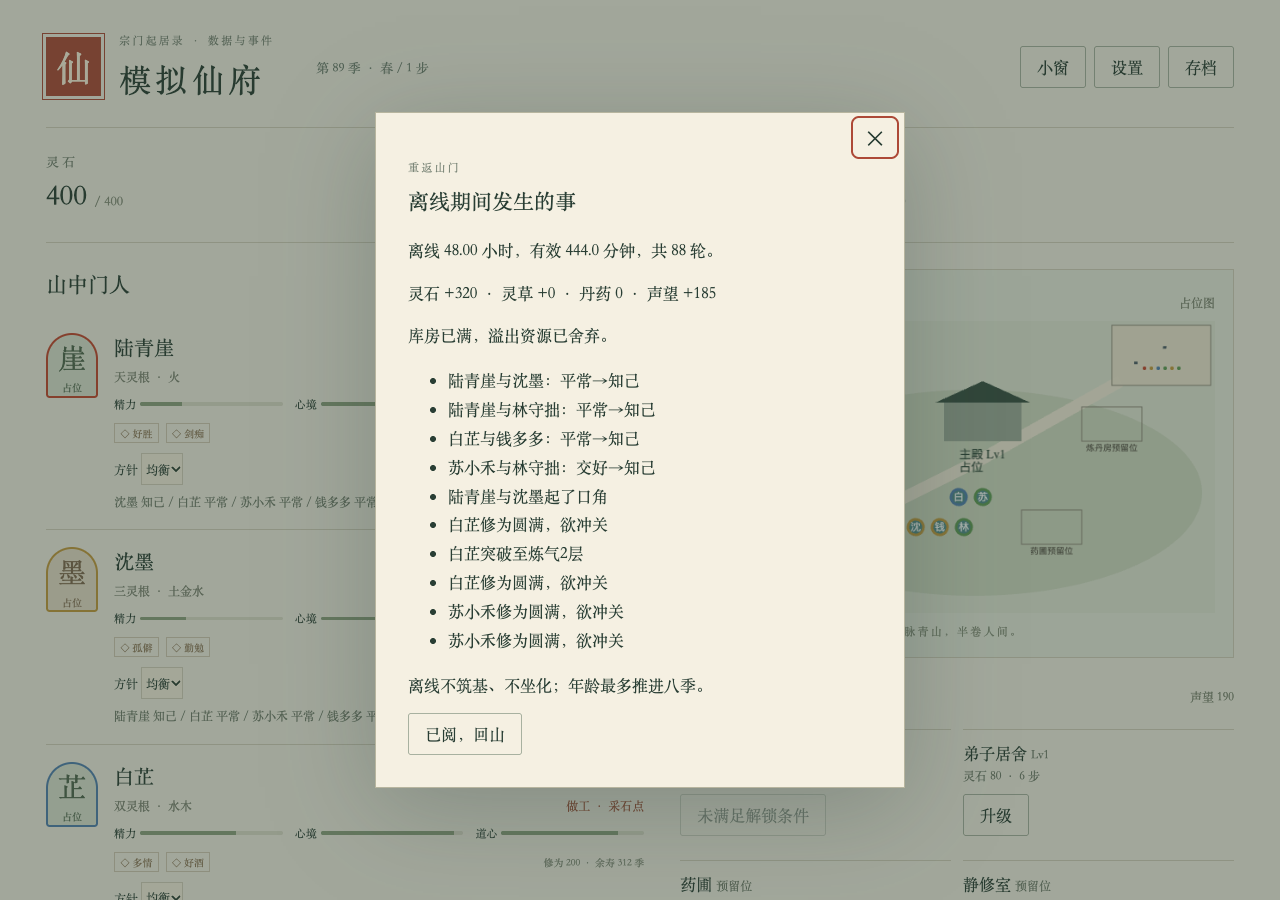
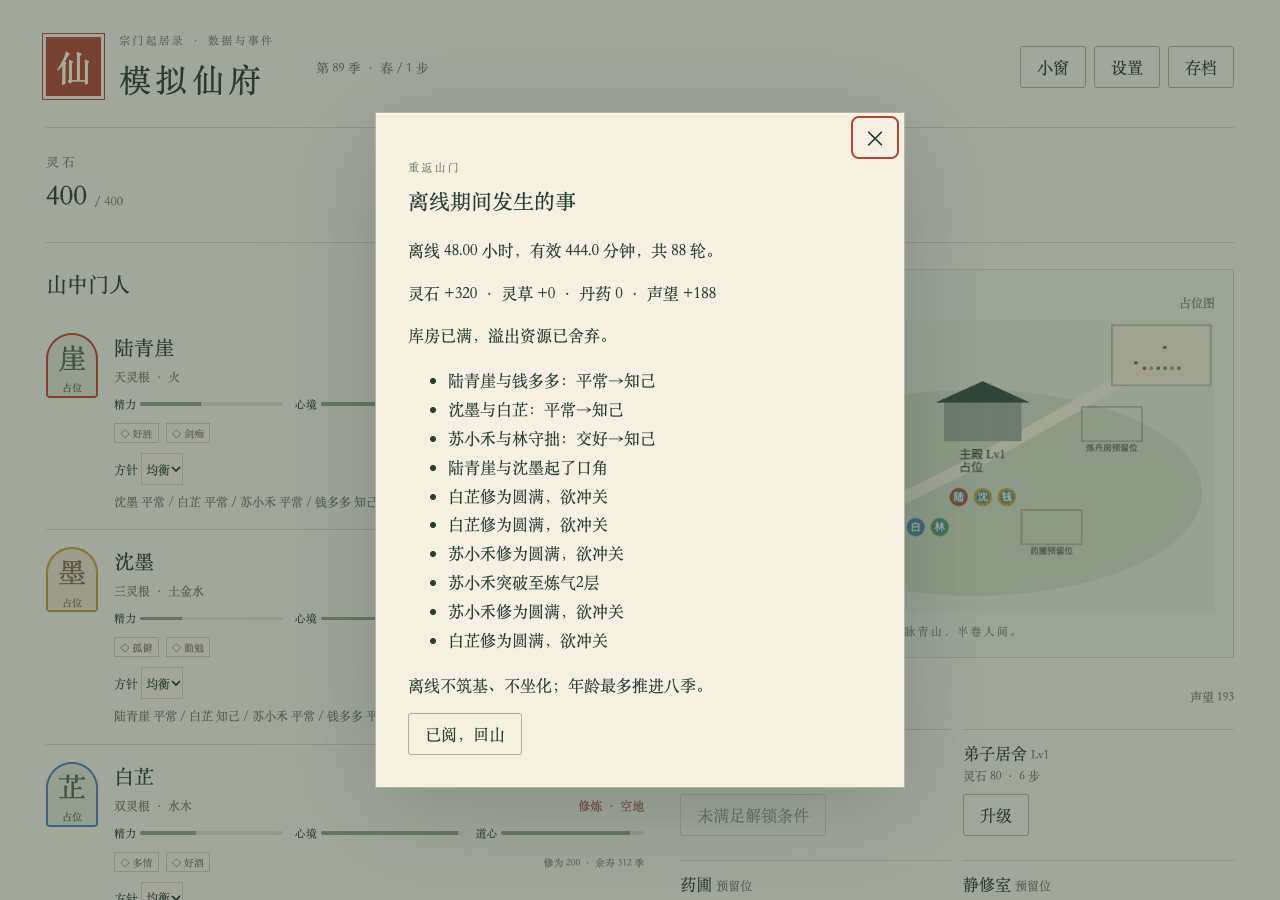
历练方案 2（Lore 确认）：ADV_01 精力≥60、ADV_01/02 概率 30%；主要角色口径已确认；复验

diff --git a/tests/earliest-round.test.ts b/tests/earliest-round.test.ts
@@ -28,7 +28,7 @@ it.each([
 ] as const)('%s 在上一轮末被拦截、目标轮首步可入队', (id, round) => {
   const def = definition(id);
   expect(def.trigger.earliestRound).toBe(round);
-  expect(def.trigger.chance).toBe(id === 'EV_ADV_01' ? 0.06 : 1);
+  expect(def.trigger.chance).toBe(0.3);
   def.trigger.chance = 1;
   defs.splice(0, defs.length, def);
   const last = (round - 1) * 30;
@@ -79,7 +79,7 @@ it.each(['step', 'round'] as const)(
   },
 );
 
-it('第 61 步准行，离山满 30 步在第 91 步归来', () => {
+it('固定种子第 61 步准行，满一轮后按正式 30% 概率最终回山', () => {
   const adv = definition('EV_ADV_01');
   adv.trigger.chance = 1;
   defs.splice(0, defs.length, adv);
@@ -93,8 +93,16 @@ it('第 61 步准行，离山满 30 步在第 91 步归来', () => {
   defs.splice(0, defs.length, definition('EV_ADV_02'));
   while (w.tick < 90) step(w);
   expect(w.events).toHaveLength(0);
-  step(w);
-  expect(w.flags['first:EV_ADV_02']).toBe(91);
+  const traveler = w.disciples.find((d) => d.id === event.roles.A)!;
+  expect(traveler.state.awayUntil).toBe(91);
+  while (w.tick < 120 && !w.events.length) step(w);
+  const returned = w.events.find((e) => e.definitionId === 'EV_ADV_02')!;
+  expect(returned).toBeDefined();
+  expect(returned.roles.A).toBe(traveler.id);
+  expect(returned.createdTick).toBeGreaterThanOrEqual(91);
+  expect(returned.createdTick).toBeLessThanOrEqual(120);
+  expect(resolveEvent(w, returned.id, 0)).toBe(true);
+  expect(traveler.state.awayUntil).toBe(0);
 });
 
 it('最早轮次可省略，指定时必须为正整数', () => {

diff --git a/docs/ARCHITECTURE.md b/docs/ARCHITECTURE.md
@@ -49,7 +49,7 @@ flowchart LR
 
 EV_ADV_01 的 `earliestRound = 3`：tick 60 属第 2 轮，不可触发；tick 61 属第 3 轮，可以参与调度。EV_ADV_02 的 `earliestRound = 4`：tick 90 不可触发，tick 91 才可参与。所谓“第 2 轮末起”指完成第 60 步后开始的下一步，不能把第 60 步提前归入第 3 轮。准行结算设置 `awayUntil = tick + 30`，故第 61 步准行，最早第 91 步回山；延迟处理只会更晚。ADV_02 仍显式配置第 4 轮门槛，便于数据独立约束。
 
-每步 6%（ADV_01）、回山必定满足概率检查（ADV_02 chance=1）、现有每轮 cadence 的 `w.round` 键、间隔和优先级均保持不变。4.3 表 ±1 轮只约束推演表里的里程碑。最早轮次只保证下限，不保证事件一定命中或准时入队。
+方案 2 的 ADV_01/02 每步概率均为 30%，ADV_01 精力门槛为 ≥60；现有每轮 cadence 的 `w.round` 键、间隔和优先级均保持不变。4.3 表 ±1 轮只约束推演表里的里程碑。最早轮次只保证下限，不保证事件一定命中或准时入队。
 
 ```ts
 resolveEvent(world, eventId, optionIndex); // 返回是否成功；不可用不改变世界
@@ -80,7 +80,7 @@ upgrade(world, 'B_HALL'); // 同订单入口
 
 ## 待 Lore 确认（逐条决定对照）
 
-以下 26 条已按 02a 核对实际代码；“同意现实现”项中发现的延寿上限遗漏也已修复。本次新增主要角色解释口径待 Lore 确认，见下文。
+以下 26 条已按 02a 核对实际代码；“同意现实现”项中发现的延寿上限遗漏也已修复。主要角色解释口径已确认（Lore 2026-10-29 确认），见下文。
 
 | 项目                | 状态                   | 当前实现与核对依据                                                                                                                                                                               |
 | ------------------- | ---------------------- | ------------------------------------------------------------------------------------------------------------------------------------------------------------------------------------------------ |
@@ -90,7 +90,7 @@ upgrade(world, 'B_HALL'); // 同订单入口
 | 开局与预留位        | 已决定（02a 第 4 条）  | 主殿/居舍 Lv1，其余三个空位；升级原位。核对 `buildings.json`、`loadData/build`。                                                                                                                 |
 | 开局需求            | 已决定（02a 第 5 条）  | 六人均为精力 90、心境 75、道心 20。逐人核对 `roster.json`。                                                                                                                                      |
 | 行为特质系数        | 已决定（02a 第 6 条）  | 多情社交 ×1.5、孤僻 ×0.5、勤勉修炼 ×1.2、懒散做工 ×0.8。核对 `traits.json` 与 `choose`。                                                                                                         |
-| 历练基础概率        | 已决定（02a 第 7 条）  | 每步 6%，剑痴/金/福缘选人权重 ×2、冷却两轮。核对 EV_ADV_01；Lore 补充决定增加 ADV_01 最早第 3 轮、ADV_02 最早第 4 轮。                                                                           |
+| 历练基础概率        | 已决定（02a 第 7 条）  | 方案 2：ADV_01/02 每步均 30%，ADV_01 精力 ≥60；剑痴/金/福缘选人权重 ×2、冷却两轮。核对 EV_ADV_01；Lore 补充决定增加 ADV_01 最早第 3 轮、ADV_02 最早第 4 轮。                                     |
 | 岗位排序与资源储备  | 已决定（02a 第 8 条）  | 保留 `balance.jobs`：100/10/6/5/3/2/1；核对 `jobs/work` 的建设储备判定。                                                                                                                         |
 | 做工评分括号        | 已决定（02a 第 9 条）  | 整个 `(40 + 空缺岗位数×10)` 乘方针和特质。核对 `choose`。                                                                                                                                        |
 | 社交关系            | 已决定（02a 第 10 条） | 结束时选择在山、关系最高且 > -20 的对象，双方记一次，双方特质系数相乘，多情不重复乘。核对 `step/socialCoefficient/changeRelation`；原表“不低于 -19”已纠正为实际比较符。                          |
@@ -122,21 +122,21 @@ upgrade(world, 'B_HALL'); // 同订单入口
 
 ## 实际验证与边界
 
-本次命令、62 项单测、种子 42 和两种 100 种子口径结果见 `docs/M2-VALIDATION.md`。默认故事门槛和主殿完成率通过；零操作的故事完成率仍低，30 步等待未经批准不调整。
+方案 2 的命令、单测、种子 42 和两种 100 种子口径结果见 `docs/M2-VALIDATION.md`。默认故事门槛和主殿完成率通过；零操作的故事完成率仍低，30 步等待未经批准不调整。
 
-CLI 记录全部 20 个事件的首次出现中位轮次和命中数，未命中为 null。历练节奏偏早已按 Lore 决定增加最早轮次处理；默认 ADV_01/02 中位第 4/5 轮（7/4 局），零操作第 5/6 轮（35/17 局）。未据此宣称整个 M2 或浏览器验收完成。
+CLI 记录全部 20 个事件的首次出现中位轮次和命中数，未命中为 null。历史最早轮次版本记录（非方案 2）：默认 ADV_01/02 中位第 4/5 轮（7/4 局），零操作第 5/6 轮（35/17 局）。未据此宣称整个 M2 或浏览器验收完成。
 
 v1.1 浏览器验证（2026-10-29 08:29 UTC+8，执行者在沙箱外用系统 Chrome 无头运行）：`node scripts/e2e.mjs http://localhost:4173/` 六图与断言（含长老“178 岁 / 余寿 6 季”）通过，截图已更新于 docs/screenshots/01~06；`--soak` 短挂机 67 步通过、0 报错。10 分钟长挂机已在历练最早轮次版本重跑通过（见 docs/M2-VALIDATION.md 末节）。
 
 本次最早轮次改动尚未进行浏览器复验，由指挥官运行；上述浏览器记录仅属于改动前 v1.1。
 
-## 历练主要角色排除（待 Lore 确认口径）
+## 历练主要角色排除：已确认（Lore 2026-10-29 确认）
 
-这是执行者根据本次指令对“主要角色”的解释，尚待 Lore 确认。开局数据按 02 第 1.6 节：陆青崖 A；沈墨 A、C；白芷 C；苏小禾 B；钱多多 D；林守拙 B。`roster.json` 的 `storyLines` 经弟子 schema 校验并进入世界/存档；运行时将其与 `cast:<chain>:<slot>` 绑定取并集，覆盖招新角色。招新显式设为空数组，不继承克隆模板的故事线。
+“主要角色”口径已确认（Lore 2026-10-29 确认）。开局数据按 02 第 1.6 节：陆青崖 A；沈墨 A、C；白芷 C；苏小禾 B；钱多多 D；林守拙 B。`roster.json` 的 `storyLines` 经弟子 schema 校验并进入世界/存档；运行时将其与 `cast:<chain>:<slot>` 绑定取并集，覆盖招新角色。招新显式设为空数组，不继承克隆模板的故事线。
 
 任一涉及线仍有效即排除；全部线终点（该 chain 最大 step 的事件）已结算，或当前已无可用的硬条件角色组合才释放。终点入队不算完成。可开性检查不抽随机数，遍历首节点的角色槽，绑定槽沿用已绑定角色；未绑定槽只检查 trait/root 及其 any/all 组合、存活限制和角色互异。精力、关系、地点、建筑、年龄阶段及暂时离山都不用于宣布线路失效；允许坐化角色的 B 槽保留其原规则。队列中还有该线事件时仍算有效。
 
-例如 C 线未绑定、已无多情弟子时解除该线排除；这是基于当前角色池的可开性判断，不永久写“废线”标记。如果随后招新补齐角色，排除重新生效。此可恢复解释同属待 Lore 确认口径，避免把“当前开不了”伪装成对未来招新的预言。
+例如 C 线未绑定、已无多情弟子时解除该线排除；这是基于当前角色池的可开性判断，不永久写“废线”标记。如果随后招新补齐角色，排除重新生效。此可恢复解释同属已确认口径，避免把“当前开不了”伪装成对未来招新的预言。
 
 `roles.<slot>.excludeStoryCast`、`excludeWithPendingEvent` 是可选 boolean，省略不增加该项限制。全局同人唯一仍始终生效，后者在数据中显式声明约束，不允许通过 false 绕过全局规则。选人代码不按事件 ID 分支。
 

diff --git a/README.md b/README.md
@@ -68,11 +68,11 @@ SOAK_MIN=10 SOAK_SPEED=10 node scripts/soak-long.mjs http://localhost:4173/
 
 事件采用 `{id, kind, chain, step, roles, trigger, hint, text, options, priority, cooldown, pity, branches}`；`options` 含 label/effects/default/cost/conditions，可选 `costBalance` 引用数值配置。例如 `{"op":"resource","key":"reputation","value":25}` 表示声望至少 25；`{"op":"any","conditions":[...]}` 表示任一条件。效果按 type 进入注册表，普通数值写 JSON，特殊规则才加代码。
 
-`trigger` 包含 `conditions`、`chance`（0～1）、`cadence`（`step` / `round`），可选 `earliestRound`（正整数，省略等同 1）。最早轮次按统计口径 ⌈tick/30⌉ 判定：第 N 轮首步为 tick = (N−1)×30+1。未到门槛时在角色抽取和概率掷骰之前跳过，不消耗随机数、不登记每轮首次合法掷骰，保底也不能绕过门槛。EV_ADV_01 为 3（最早 tick 61），每步概率为 6%；EV_ADV_02 为 4（最早 tick 91），仍需离山满 30 步。4.3 表 ±1 轮仅约束推演表里程碑。
+`trigger` 包含 `conditions`、`chance`（0～1）、`cadence`（`step` / `round`），可选 `earliestRound`（正整数，省略等同 1）。最早轮次按统计口径 ⌈tick/30⌉ 判定：第 N 轮首步为 tick = (N−1)×30+1。未到门槛时在角色抽取和概率掷骰之前跳过，不消耗随机数、不登记每轮首次合法掷骰，保底也不能绕过门槛。EV_ADV_01 为 3（最早 tick 61），精力门槛 ≥60，每步概率为 30%；EV_ADV_02 为 4（最早 tick 91），仍需离山满 30 步，之后每步概率为 30%。4.3 表 ±1 轮仅约束推演表里程碑。
 
 角色槽可配置 `excludeStoryCast: true` 与 `excludeWithPendingEvent: true`（可选 boolean）；前者排除尚有效故事线的主要角色，后者显式声明队列占用排除，全局同人唯一始终生效。`allowAway` 的已离山者接续旅程时不重验故事线身份，仍须等其他未结事件释放角色才可回山。
 
-弟子新增 `storyLines: ["A", "C"]`，元素限定 A/B/C/D，省略默认 `[]`，招新为空；运行时还合并 chain role binding。全部涉及线终结或当前硬条件角色组合已不存在时释放，临时地点/精力不足不算失效。完整解释及旧存档边界见 `docs/ARCHITECTURE.md` 的“待 Lore 确认口径”。
+弟子新增 `storyLines: ["A", "C"]`，元素限定 A/B/C/D，省略默认 `[]`，招新为空；运行时还合并 chain role binding。全部涉及线终结或当前硬条件角色组合已不存在时释放，临时地点/精力不足不算失效。完整解释及旧存档边界见 `docs/ARCHITECTURE.md` 的“历练主要角色排除：已确认（Lore 2026-10-29 确认）”。
 
 弟子以季存年龄、总寿元和 remainingSeasons；年龄显示向下取整为岁，另显示余寿季数。新局长老为 714/720/6 季；延寿只加总寿元与余寿。招新十二姓名抽签不放回，用尽重置；签池使用记录在世界 flags 中持久化。模拟函数原地修改世界，同 seed 同操作可逐项复现；所有随机调用计数进入存档。自动掌门默认开启，可在设置关闭；方针只指方向，弟子自行选择动作。建筑和事件选项先验条件/成本，不允许负资源。
 
@@ -103,6 +103,24 @@ npm run sim -- --seeds 100 --rounds 6 --idle --report docs/sim-idle-100.json
 默认 sim 在事件出现时立即选默认；`--idle` 才是前台 30 步超时处理，两者分别统计。默认成本不足时采用列表中第一个付得起且条件可用的选项（不限定免费），与零操作处理共用逻辑。统计命令成功退出表示模拟正常运行，**不表示节奏/故事目标通过**。统计显式包含至少一次 EV_ADV_01 的局数、ADV_01/02 各自出现局数与首次中位轮次（无命中为 null），并含全部事件首次出现中位轮次（⌈步/30⌉）、命中数、A/B/C/D 完成率、完成线数分布、≥3 条比例和 SEC_02 命中率。具体缺口与 26 条决定对照见 `docs/ARCHITECTURE.md`。
 
 离线分段累计有效时间，再向下取整：十分钟 2 轮、八小时 45 轮、一天 74 轮、七天 160 轮；负时间不补算，七天封顶。每人最多两次成功小突破，不筑基、不坐化，年龄最多八季；离线结束每人修为按当前层截断为 100/150/200，溢出丢弃；离线不新开工程，已开工继续完成。通用事件默认结算，最多保留三个连锁决策节点，汇总含关系档位变化和十条以内提示。
+
+## 方案 2 正式版
+
+Lore 2026-10-29 确认：EV_ADV_01 角色 A 精力门槛 ≥60；ADV_01 与 ADV_02 每步概率均为 30%。最早轮次仍为 3/4，ADV_02 仍须离山满 30 步后逐步等待概率命中。主要角色口径已确认，excludeStoryCast/excludeWithPendingEvent、连锁优先级、6 步间隔、autoResolveSteps=30、c3BlessStone=0 全部保留。
+
+种子 0～99，各 6 轮；统计脚本及口径不变。“至少一次历练”按 ADV_01 入队计数，不等于准行或回山；首次轮次为 ceil(tick/30)，中位数取命中样本排序后的 floor(n/2) 项。全默认出现即选默认（不可支付则走原退路），零操作等 30 步超时。
+
+| 指标                           | 全默认        | 零操作      |
+| ------------------------------ | ------------- | ----------- |
+| 至少一次历练局数 / 100         | 65            | 82          |
+| ADV_01 出现局数 / 首次中位轮次 | 65 / 5        | 82 / 6      |
+| ADV_02 出现局数 / 首次中位轮次 | 25 / 5        | 6 / 6       |
+| A/B/C/D 完成局数（各 / 100）   | 100/100/99/99 | 0/0/0/84    |
+| ≥3 条局数 / 100                | 100           | 0           |
+| 完成 0/1/2/3/4 条的局数分布    | 0/0/0/2/98    | 16/84/0/0/0 |
+| 主殿 Lv2 局数 / 100            | 100           | 37          |
+
+全默认满足历练 ≥60 局、各线 ≥80%、每局 ≥3 条、主殿 ≥90% 的门槛。零操作仅历练及 D 线达标，A/B/C、≥3 条、主殿均未达标；未追加调参。原始报告为 `docs/sim-100.json` 与 `docs/sim-idle-100.json`，含全部里程碑命中数与首次中位轮次。
 
 ## 存档与隐藏
 

diff --git a/STATUS.md b/STATUS.md
@@ -13,3 +13,6 @@
 - 2026-10-29 08:45:46 开始：历练排除故事主角/有未结事件弟子、概率 3%→6%，交 codex exec #6（Mac mini）
 - 2026-10-29 08:52:27 codex #6 完成（6%、排除故事主角与未结事件）；复验 build/test/lint/sim、e2e、短 soak；全默认历练仅 5% 局出现，未达 60% 目标；开始长挂机
 - 2026-10-29 09:02:50 长挂机通过（600 步、自动结算 47、0 报错）；补充试验写入 M2-VALIDATION；本地提交（历练目标 60% 未达成，待 Lore 选调整方案）
+- 2026-10-29 09:04:06 开始：方案 2 正式数据（ADV_01 精力≥60、ADV_01/02 概率 30%），交 codex exec #7（Mac mini）
+- 2026-10-29 09:06:53 codex #7 完成；复验 build/test/lint/sim 通过，全默认达标；e2e 6 图+短 soak 已跑；开始长挂机
+- 2026-10-29 09:10:35 指挥官拍板 autoResolveSteps=10、c3BlessStone=10：中止方案 2 长挂机（改为最终参数再跑）；方案 2 先本地提交
